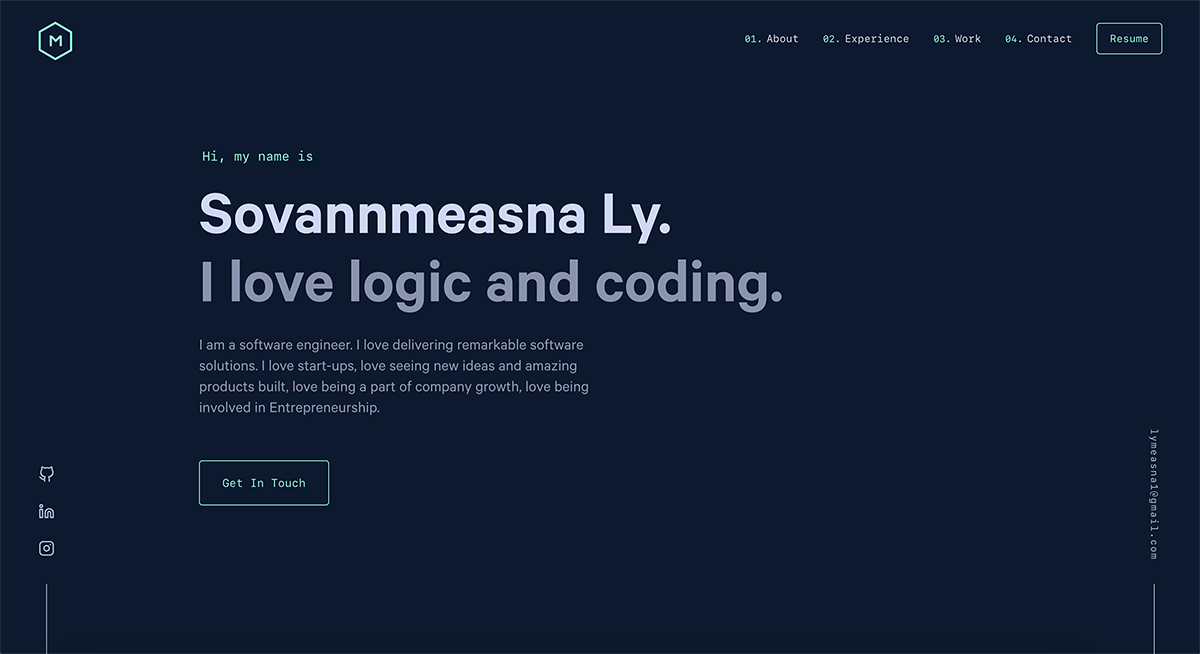
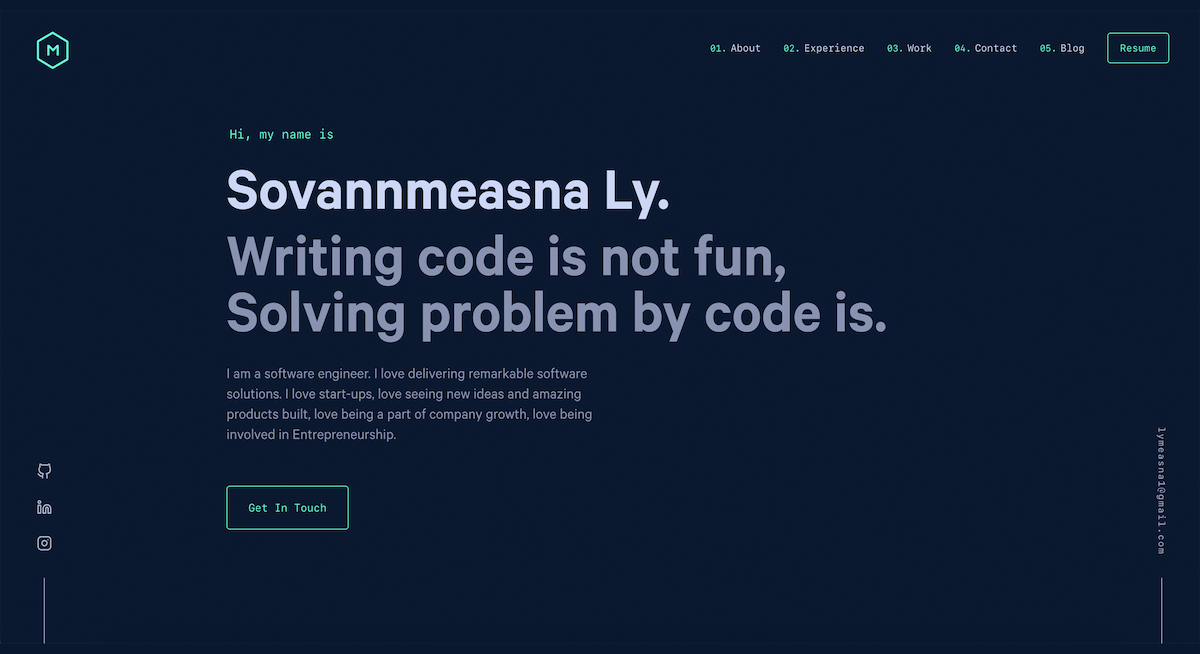
update style, add menu blog, update information

diff --git a/src/components/sections/contact-form.js b/src/components/sections/contact-form.js
@@ -3,7 +3,7 @@ import styled from 'styled-components';
 import { srConfig } from '@config';
 import sr from '@utils/sr';
 import { usePrefersReducedMotion } from '@hooks';
-import ReCAPTCHA from 'react-google-recaptcha';
+// import ReCAPTCHA from 'react-google-recaptcha';
 
 const StyledFormSection = styled.div`
   max-width: 600px;
@@ -89,7 +89,7 @@ const ContactForm = () => {
     message: false,
   };
   const [errors, setErrors] = useState(initialErrors);
-  const [recaptchaValue, setRecaptchaValue] = useState(null);
+//   const [recaptchaValue, setRecaptchaValue] = useState(null);
 
   useEffect(() => {
     if (prefersReducedMotion) {
@@ -144,8 +144,28 @@ const ContactForm = () => {
     return isValid;
   };
 
-  const submitData = () => {
-    alert(inputs);
+  const clearData = () => {
+    setInputs({ ...initialInputs });
+    setErrors({ ...initialErrors });
+    // setRecaptchaValue(null);
+  };
+
+  const submitData = async () => {
+    // const url = `${process.env.BASE_URL}/portfolio-contact`;
+    const url = 'https://j2yempxlb9.execute-api.us-east-1.amazonaws.com/v1/portfolio-contact';
+    const response = await fetch(url, {
+      method: 'POST', 
+      mode: 'cors', 
+      headers: {
+        'Content-Type': 'application/json',
+      },
+      body: JSON.stringify(inputs), 
+    });
+
+    if (response.ok) {
+      alert('Thank you for your message. I will get back to you soon.');
+      clearData();
+    }   
   };
 
   const handleChange = event => {
@@ -155,16 +175,16 @@ const ContactForm = () => {
     validate(name, value);
   };
 
-  const handleRecaptchaChange = value => {
-    setRecaptchaValue(value);
-  };
+//   const handleRecaptchaChange = value => {
+//     setRecaptchaValue(value);
+//   };
 
   const handleSubmit = event => {
     event.preventDefault();
 
-    if (recaptchaValue === null) {
-      return;
-    }
+    // if (recaptchaValue === null) {
+    //   return;
+    // }
 
     setErrors({ ...initialErrors });
     setTimeout(() => {
@@ -199,8 +219,12 @@ const ContactForm = () => {
           <textarea className={errors.message ? 'input input-error' : 'input'} id="message" rows={5} value={inputs.message} name="message" placeholder="Enter your message"  onChange={handleChange}></textarea>
         </div>
         <div >
-          <ReCAPTCHA sitekey={process.env.REACT_APP_SITE_KEY} onChange={handleRecaptchaChange} />
-          <input className="submit-button" disabled={recaptchaValue === null} type="submit" value="Submit" />
+          {/* <ReCAPTCHA sitekey={process.env.REACT_APP_SITE_KEY} onChange={handleRecaptchaChange} />
+          { recaptchaValue !== null ? 
+            <input className="submit-button" disabled={recaptchaValue === null} type="submit" value="Submit" />
+            : <div/>
+          } */}
+          <input className="submit-button" type="submit" value="Submit" />
         </div>
       </form>
     </StyledFormSection>

diff --git a/src/pages/blog/index.js b/src/pages/blog/index.js
@@ -147,15 +147,18 @@ const PensievePage = ({ location, data }) => {
 
   return (
     <Layout location={location}>
-      <Helmet title="Pensieve" />
+      <Helmet title="Blog" />
 
       <StyledMainContainer>
         <header>
-          <h1 className="big-heading">Pensieve</h1>
+          <h1 className="big-heading">Blog</h1>
           <p className="subtitle">
-            <a href="https://www.wizardingworld.com/writing-by-jk-rowling/pensieve">
+            {/* <a href="https://www.wizardingworld.com/writing-by-jk-rowling/pensieve">
               a collection of memories
-            </a>
+            </a> */}
+            <p>
+              a collection of notes
+            </p>
           </p>
         </header>
 
@@ -184,7 +187,7 @@ const PensievePage = ({ location, data }) => {
                       <ul className="post__tags">
                         {tags.map((tag, i) => (
                           <li key={i}>
-                            <Link to={`/pensieve/tags/${kebabCase(tag)}/`} className="inline-link">
+                            <Link to={`/blog/tags/${kebabCase(tag)}/`} className="inline-link">
                               #{tag}
                             </Link>
                           </li>

diff --git a/src/templates/tag.js b/src/templates/tag.js
@@ -56,13 +56,13 @@ const TagTemplate = ({ pageContext, data, location }) => {
       <StyledTagsContainer>
         <span className="breadcrumb">
           <span className="arrow">&larr;</span>
-          <Link to="/pensieve">All memories</Link>
+          <Link to="/blog">All blog</Link>
         </span>
 
         <h1>
           <span>#{tag}</span>
           <span>
-            <Link to="/pensieve/tags">View all tags</Link>
+            <Link to="/blog/tags">View all tags</Link>
           </span>
         </h1>
 
@@ -86,7 +86,7 @@ const TagTemplate = ({ pageContext, data, location }) => {
                   {tags &&
                     tags.length > 0 &&
                     tags.map((tag, i) => (
-                      <Link key={i} to={`/pensieve/tags/${kebabCase(tag)}/`} className="tag">
+                      <Link key={i} to={`/blog/tags/${kebabCase(tag)}/`} className="tag">
                         #{tag}
                       </Link>
                     ))}

diff --git a/src/components/sections/contact.js b/src/components/sections/contact.js
@@ -1,9 +1,9 @@
 import React, { useEffect, useRef } from 'react';
 import styled from 'styled-components';
-import { srConfig } from '@config';
+import { srConfig, email} from '@config';
 import sr from '@utils/sr';
 import { usePrefersReducedMotion } from '@hooks';
-import ContactForm from './contact-form';
+// import ContactForm from './contact-form';
 
 const StyledContactSection = styled.section`
   max-width: 600px;
@@ -65,11 +65,11 @@ const Contact = () => {
         Whether you have a question or any opportunities or just want to say hi, I’ll do my best to get back to you!
       </p>
 
-      {/* <a className="email-link" href={`mailto:${email}`}>
-        Say Hello
-      </a> */}
+      <a className="email-link" href={`mailto:${email}`}>
+        Contact Me
+      </a>
 
-      <ContactForm />
+      {/* <ContactForm /> */}
       
     </StyledContactSection>
   );

diff --git a/src/templates/post.js b/src/templates/post.js
@@ -61,7 +61,7 @@ const PostTemplate = ({ data, location }) => {
       <StyledPostContainer>
         <span className="breadcrumb">
           <span className="arrow">&larr;</span>
-          <Link to="/pensieve">All memories</Link>
+          <Link to="/blog">All blogs</Link>
         </span>
 
         <StyledPostHeader>
@@ -78,7 +78,7 @@ const PostTemplate = ({ data, location }) => {
             {tags &&
               tags.length > 0 &&
               tags.map((tag, i) => (
-                <Link key={i} to={`/pensieve/tags/${kebabCase(tag)}/`} className="tag">
+                <Link key={i} to={`/blog/tags/${kebabCase(tag)}/`} className="tag">
                   #{tag}
                 </Link>
               ))}

diff --git a/src/pages/blog/tags.js b/src/pages/blog/tags.js
@@ -43,14 +43,14 @@ const TagsPage = ({
     <StyledTagsContainer>
       <span className="breadcrumb">
         <span className="arrow">&larr;</span>
-        <Link to="/pensieve">All memories</Link>
+        <Link to="/blog">All blogs</Link>
       </span>
 
       <h1>Tags</h1>
       <ul className="fancy-list">
         {group.map(tag => (
           <li key={tag.fieldValue}>
-            <Link to={`/pensieve/tags/${kebabCase(tag.fieldValue)}/`} className="inline-link">
+            <Link to={`/blog/tags/${kebabCase(tag.fieldValue)}/`} className="inline-link">
               {tag.fieldValue} <span className="count">({tag.totalCount})</span>
             </Link>
           </li>

diff --git a/src/components/sections/hero.js b/src/components/sections/hero.js
@@ -61,7 +61,7 @@ const Hero = () => {
 
   const one = <h1>Hi, my name is</h1>;
   const two = <h2 className="big-heading">Sovannmeasna Ly.</h2>;
-  const three = <h3 className="big-heading">I love coding like anime.</h3>;
+  const three = <h3 className="big-heading">Writing code is not fun,<br/>Solving problem by code is.</h3>;
   const four = (
     <>
       <p>

diff --git a/src/config.js b/src/config.js
@@ -41,6 +41,10 @@ module.exports = {
       name: 'Contact',
       url: '/#contact',
     },
+    {
+      name: 'Blog',
+      url: '/blog',
+    },
   ],
 
   colors: {

diff --git a/content/posts/llm-on-mac-using-docker/index.md b/content/posts/llm-on-mac-using-docker/index.md
@@ -1,0 +1,69 @@
+---
+title: LLM On Mac Using Docker
+description: Trying to run LLM on local environment
+date: 2024-05-12
+draft: false
+slug: /blog/llm-on-mac-using-docker
+tags:
+  - LLM
+  - AI
+  - Ollama
+---
+## Introduction
+As increasing of artificial intelligence, Large Language Models (LLMs) stand at the forefront of innovation, revolutionizing the way machines understand and generate human-like text. There are a lot of models, such as GPT, Llama3, Phi...etc that top companies like Faang created and open-source those projects.
+
+As for this post, I will guide you on how to simply run LLM on your computer with different models using an open-source project [Ollama](https://ollama.com/).
+
+## Pre-requirement
+You can install Ollama directly on your local or using Docker. I prefer docker more than local because it won't affect configure on my local and I can easily remove it. You will either need [Docker CLI or Docker Desktop](https://www.docker.com/) for this tutorial. I will use [Docker Desktop](https://www.docker.com/products/docker-desktop/) as it has a good UI and is easy to use. I don't need to remember or look for CLI.
+
+I assume you already installed docker and know how to use it for this part.
+
+## Step by Step Guide
+
+#### STEP 1
+Pull [Ollama](https://ollama.com/) Image
+
+![Pull image](./pull-image.png)
+
+#### STEP 2
+Create new container. You don't need to input those field. All fields are optional.
+But I recommend to input some fields for good practice.
+
+- Input container name (recommend)
+- Input port, you can input defaul port 11434 (recommend)
+- Map volumes and environment variables
+
+![Create container](./creat-container.png)
+
+#### STEP 3
+Run Container
+
+![Run Container](./run-container.png)
+
+Once your container run, you can check in your localhost with port that you configure.
+
+![Run Ollama](./ollama-running.png)
+
+#### STEP 4
+Download [models](https://ollama.com/library) that you want to run.
+For me, I want to run [orca-min](https://ollama.com/library/orca-mini). It is small model and I think it is good for my old mac.
+
+To download model, you need go to teminal of the container then use this commandline: `ollama pull 'mondel-name'`
+
+![Download Model](./dowload-model.png)
+
+To see the list of models downloaded in your Ollama's container use this commandline `ollama ls`
+
+#### FINAL STEP
+After downloaded the model, you run that model by commandline `ollama run 'model-name'`
+
+![Run Model](./run-model.png)
+
+Now you can test your own ChatGPT. It is not fast like the Nvidia GPU but it is testable. 
+
+## Conclusion
+
+You can run any models of LLM in your local in these 5 simple steps. It opens up new possibilities for developers, engineers to try with their idea. If you use docker CLI, it took you less then a minute to run model.
+
+As for me, this is my first step in the journey of AI as a software engineer. Even though I am not a genius who creates AI, I think I can be someone who can use it for my purpose. For the next step, I am looking for a way how to train my data like pdf into models.

diff --git a/content/jobs/Spacianet/index.md b/content/jobs/Spacianet/index.md
@@ -3,7 +3,7 @@ date: '2021-12-21'
 title: 'IT Manager | Technical Lead | Developer'
 company: 'SpaciaNet'
 location: 'Phnom Penh, Cambodia'
-range: 'February 2022 - April 2023 (Full-Time) | April 2023 - April 2024 (Distance Support)'
+range: 'February 2022 - April 2023 | April 2023 - April 2024 (Distance Support)'
 url: 'https://spacianet.com.kh/'
 ---
 

diff --git a/content/jobs/Fiserv/index.md b/content/jobs/Fiserv/index.md
@@ -1,0 +1,10 @@
+---
+date: '2024-04-26'
+title: 'Software Engineer III | Mobile Developer'
+company: 'Fiserv'
+location: 'Alpharetta, GA'
+range: 'April 2024 - Present'
+url: 'https://www.fiserv.com/'
+---
+
+- Loading...

diff --git a/content/posts/wordpress-publish-error/index.md b/content/posts/wordpress-publish-error/index.md
@@ -2,7 +2,7 @@
 title: WordPress Publishing Error
 description: Trying to create a simple post in WordPress
 date: 2019-12-03
-draft: false
+draft: true
 slug: /pensieve/wordpress-publish-error
 tags:
   - WordPress
